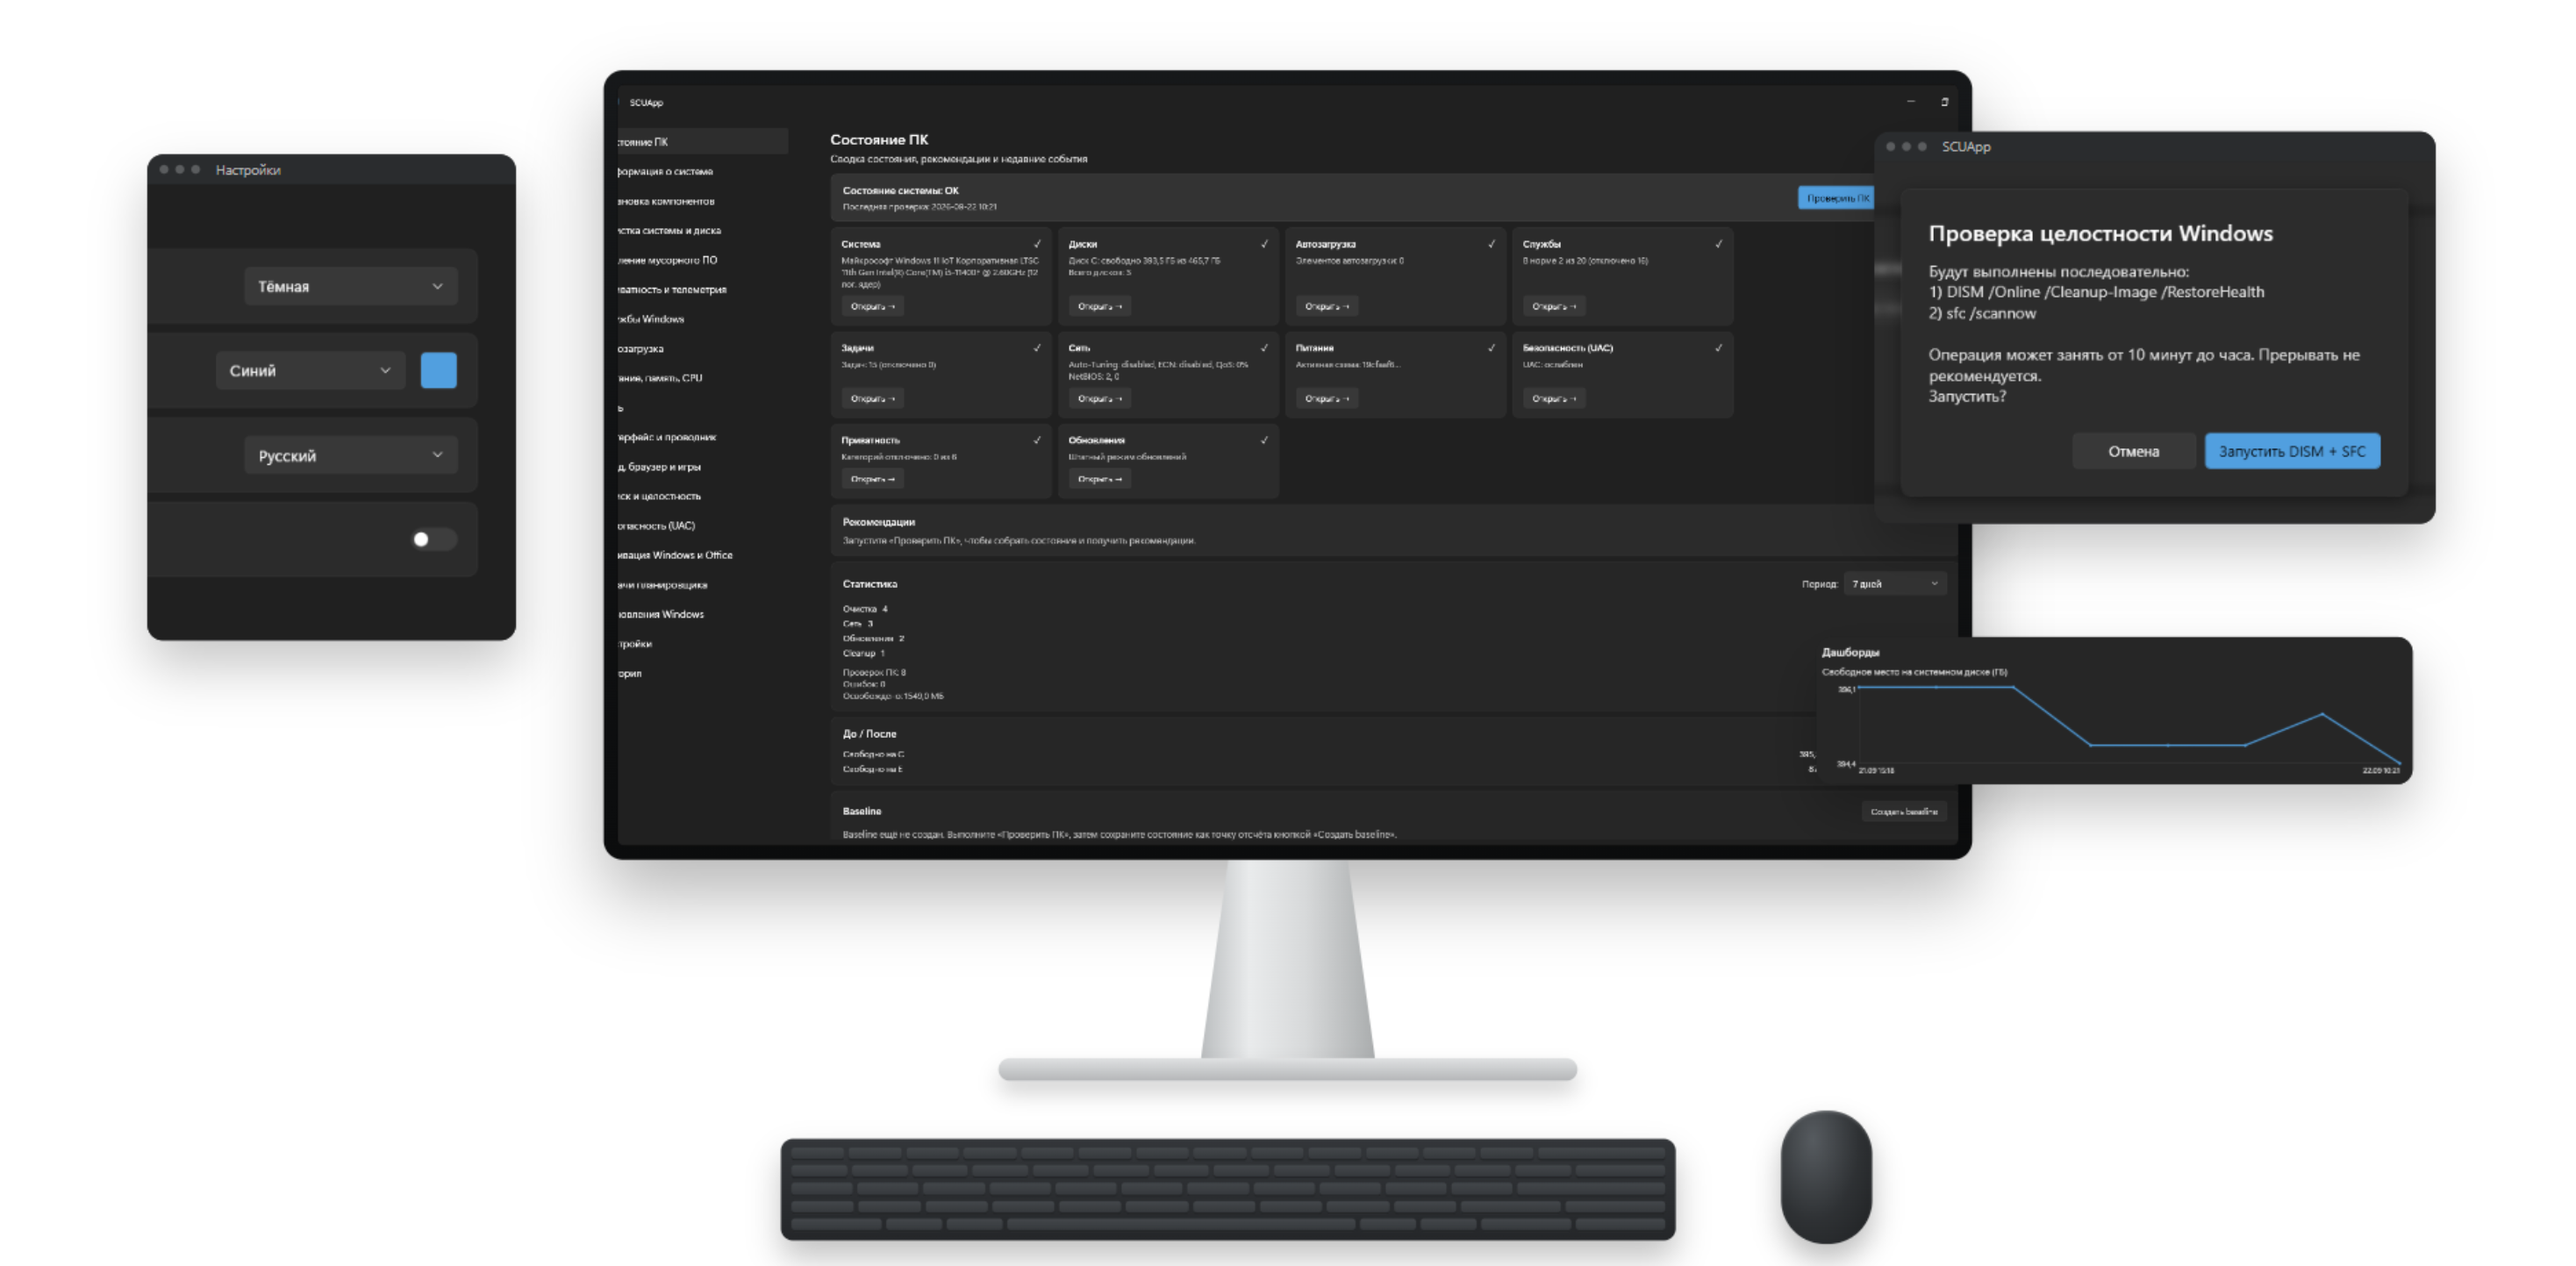
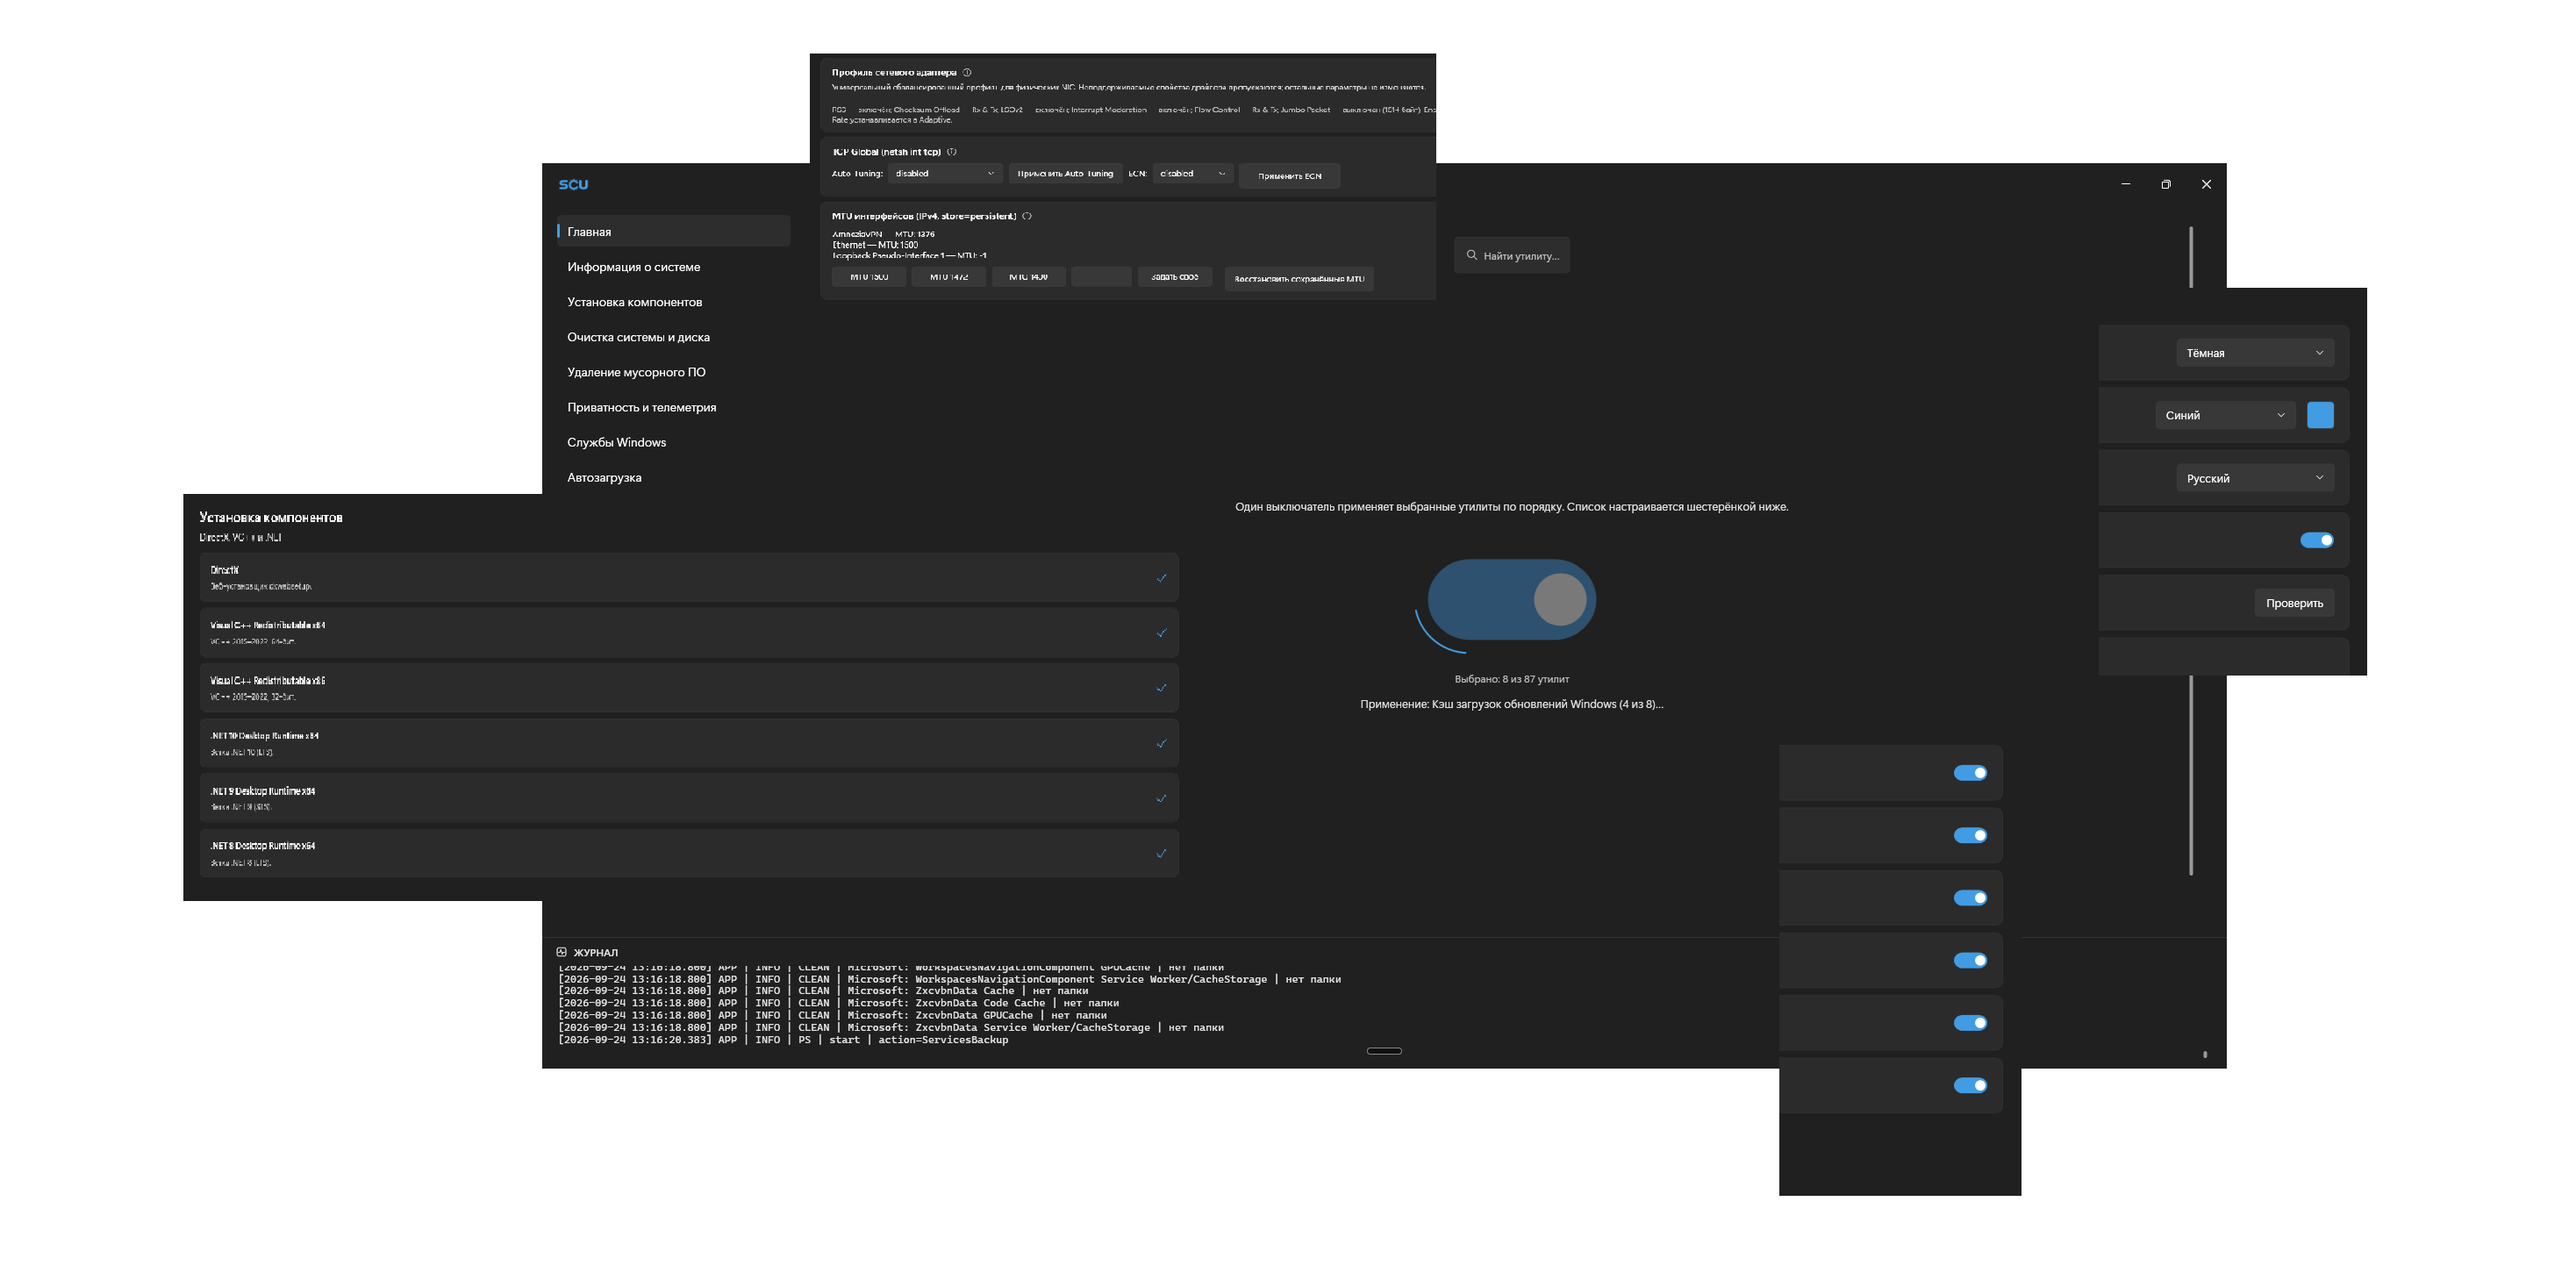
Минорное

diff --git a/index.html b/index.html
@@ -5,8 +5,8 @@
     <meta name="viewport" content="width=device-width, initial-scale=1.0">
     <title>SCU</title>
     <meta name="description" content="Бесплатная утилита для настройки и обслуживания Windows. Множество скриптов в одном файле.">
-    <link rel="icon" type="image/png" href="static/SCU/app-icon.png">
-    <link rel="apple-touch-icon" href="static/SCU/app-icon.png">
+    <link rel="icon" type="image/png" href="static/compositor/app-icon.png">
+    <link rel="apple-touch-icon" href="static/compositor/app-icon.png">
 
     <link rel="preconnect" href="https://fonts.googleapis.com">
     <link rel="preconnect" href="https://fonts.gstatic.com" crossorigin="">
@@ -143,7 +143,20 @@
         .gallery-track { position: absolute; inset: 0; display: flex; flex-direction: column; }
         .gallery-track img { flex: 1 1 0; min-height: 0; width: 100%; object-fit: cover; }
         .gallery-track .dup { display: none; }
-        .gallery.three .extra { display: none; }
+
+        .cards {
+            display: flex;
+            align-items: center;
+            gap: 18px;
+            margin-top: 44px;
+            max-width: 433px;
+        }
+        .cards img {
+            border-radius: 12px;
+            box-shadow: 0 14px 34px rgba(0, 0, 0, .18);
+        }
+        .cards img:first-child { width: 246px; }
+        .cards img:last-child { width: 141px; }
 
         .info {
             width: 50%;
@@ -260,7 +273,6 @@
             .purpose { flex-direction: column; margin-top: 35px; }
 
             .gallery { width: 100%; pointer-events: none; touch-action: pan-y; }
-            .gallery.three .extra { display: block; }
             .gallery-track {
                 position: static;
                 flex-direction: row;
@@ -282,6 +294,9 @@
             .info h2 { margin-top: 12px; font-size: 21px; line-height: 26px; }
             .copy { max-width: none; margin-top: 21px; }
             .copy p { font-size: 14px; line-height: 20px; margin-bottom: 20px; }
+            .cards { margin-top: 36px; gap: 12px; }
+            .cards img:first-child { width: 208px; }
+            .cards img:last-child { width: 119px; }
             .features { margin-top: 40px; max-width: none; }
             .features li { height: 44px; font-size: 14px; padding-left: 8px; }
 
@@ -311,26 +326,24 @@
         <p class="sub">Множество скриптов в одном файле</p>
 
         <div class="buttons">
-            <a class="btn btn-download" href="https://drive.google.com/file/d/1bZUY4s6JqS0KpGveRrbbqf7swBbuv7cM/view?usp=sharing"><img src="static/SCU/windows-logo.svg" alt="">Скачать</a>
-            <a class="btn btn-source" href="https://drive.google.com/drive/folders/1Usa65sfPznK6GNPHZIR99-OaJWV7etk1?usp=sharing" target="_blank" rel="noopener"><img src="static/SCU/gdrive-logo.svg" alt="">Исходный код</a>
+            <a class="btn btn-download" href="https://drive.google.com/file/d/1bZUY4s6JqS0KpGveRrbbqf7swBbuv7cM/view?usp=sharing"><img src="static/compositor/windows-logo.svg" alt="">Скачать</a>
+            <a class="btn btn-source" href="https://drive.google.com/drive/folders/1Usa65sfPznK6GNPHZIR99-OaJWV7etk1?usp=sharing" target="_blank" rel="noopener"><img src="static/compositor/gdrive-logo.svg" alt="">Исходный код</a>
         </div>
 
         <div class="hero-image">
-            <img src="static/SCU/hero.png" alt="Используйте SCU на Windows">
+            <img src="static/compositor/hero.png" alt="Интерфейс приложения SCU">
         </div>
     </header>
 
     <section class="purpose">
         <div class="gallery" aria-hidden="true">
             <div class="gallery-track">
-                <img src="static/scu/screen-main.png" alt="">
-                <img src="static/scu/screen-install.png" alt="">
-                <img src="static/scu/screen-cleanup.png" alt="">
-                <img class="extra" src="static/scu/screen-power.png" alt="">
-                <img class="dup" src="static/scu/screen-main.png" alt="">
-                <img class="dup" src="static/scu/screen-install.png" alt="">
-                <img class="dup" src="static/scu/screen-cleanup.png" alt="">
-                <img class="dup" src="static/scu/screen-power.png" alt="">
+                <img src="static/scuapp/screen-install.png" alt="">
+                <img src="static/scuapp/screen-cleanup.png" alt="">
+                <img src="static/scuapp/screen-power.png" alt="">
+                <img class="dup" src="static/scuapp/screen-install.png" alt="">
+                <img class="dup" src="static/scuapp/screen-cleanup.png" alt="">
+                <img class="dup" src="static/scuapp/screen-power.png" alt="">
             </div>
         </div>
 
@@ -340,7 +353,12 @@
             <div class="copy">
                 <p>Стандартные средства Windows разбросаны по десяткам окон и панелей, а большинство сторонних «оптимизаторов» либо перегружены рекламой и ненужным функционалом, либо выглядят так, будто их не обновляли с Windows 7. Мне нужен был один современный инструмент, который закрывает все повседневные задачи по настройке и обслуживанию системы — без лишнего шума и с привычным уровнем удобства.</p>
                 <p>Так появился SCU. Это полнофункциональная утилита для Windows с чистым интерфейсом, поддержкой тёмной и светлой темы, русским и английским языками. В одном окне собраны очистка диска и временных файлов, удаление мусорных приложений, управление службами и автозагрузкой, тонкая настройка сети, питания, приватности, интерфейса и даже активация Windows и Office. Перед любыми изменениями создаются резервные копии и точки восстановления, а дашборд подсказывает, что действительно стоит поправить.</p>
-                <p>Приложение бесплатное, работает на современном .NET и открыто для доработок. Вы можете взять исходный код, убрать ненужные разделы, добавить свои сценарии или просто пользоваться готовым инструментом, который делает систему быстрее, чище и удобнее без лишних телодвижений.</p>
+                <p>Приложение бесплатное, работает на современном .NET и открыто для доработок. Вы можете взять исходный код, убрать ненужные разделы, добавить свои сценарии или просто пользоваться готовым инструментом, который делает систему быстрее, чище и экономит ваше время.</p>
+            </div>
+
+            <div class="cards" aria-hidden="true">
+                <img src="static/scuapp/card-notification.png" alt="">
+                <img src="static/scuapp/card-settings.png" alt="">
             </div>
 
             <ul class="features">
@@ -369,12 +387,12 @@
 
     <footer class="footer">
         <div class="footer-brand">
-            <img src="static/SCU/app-icon.png" alt="иконка SCU">
+            <img src="static/compositor/app-icon.png" alt="иконка SCU">
             <span>SCU</span>
         </div>
         <div class="buttons">
-            <a class="btn btn-download" href="https://drive.google.com/file/d/1bZUY4s6JqS0KpGveRrbbqf7swBbuv7cM/view?usp=sharing"><img src="static/SCU/windows-logo.svg" alt="">Скачать</a>
-            <a class="btn btn-source" href="https://drive.google.com/drive/folders/1Usa65sfPznK6GNPHZIR99-OaJWV7etk1?usp=sharing" target="_blank" rel="noopener"><img src="static/SCU/gdrive-logo.svg" alt="">Исходный код</a>
+            <a class="btn btn-download" href="https://drive.google.com/file/d/1bZUY4s6JqS0KpGveRrbbqf7swBbuv7cM/view?usp=sharing"><img src="static/compositor/windows-logo.svg" alt="">Скачать</a>
+            <a class="btn btn-source" href="https://drive.google.com/drive/folders/1Usa65sfPznK6GNPHZIR99-OaJWV7etk1?usp=sharing" target="_blank" rel="noopener"><img src="static/compositor/gdrive-logo.svg" alt="">Исходный код</a>
         </div>
     </footer>
 
@@ -389,23 +407,6 @@
                 gtag('event', name, { transport_type: 'beacon' });
             });
         });
-
-        // Desktop: use 3 or 4 example images, whichever needs less cropping to fill the panel height.
-        (function () {
-            var gallery = document.querySelector('.gallery');
-            var ratio = 1920 / 1032;
-            function fit() {
-                var w = gallery.offsetWidth, h = gallery.offsetHeight;
-                if (!w || !h) return;
-                var natural = w / ratio;
-                var three = Math.abs(Math.log((h / 3) / natural));
-                var four = Math.abs(Math.log((h / 4) / natural));
-                gallery.classList.toggle('three', three <= four);
-            }
-            window.addEventListener('resize', fit);
-            window.addEventListener('load', fit);
-            fit();
-        })();
 
         // «клик» ↔ switch morph: word turns into a toggle that cycles
         // green → purple → light blue → blue, then turns back into the word.
